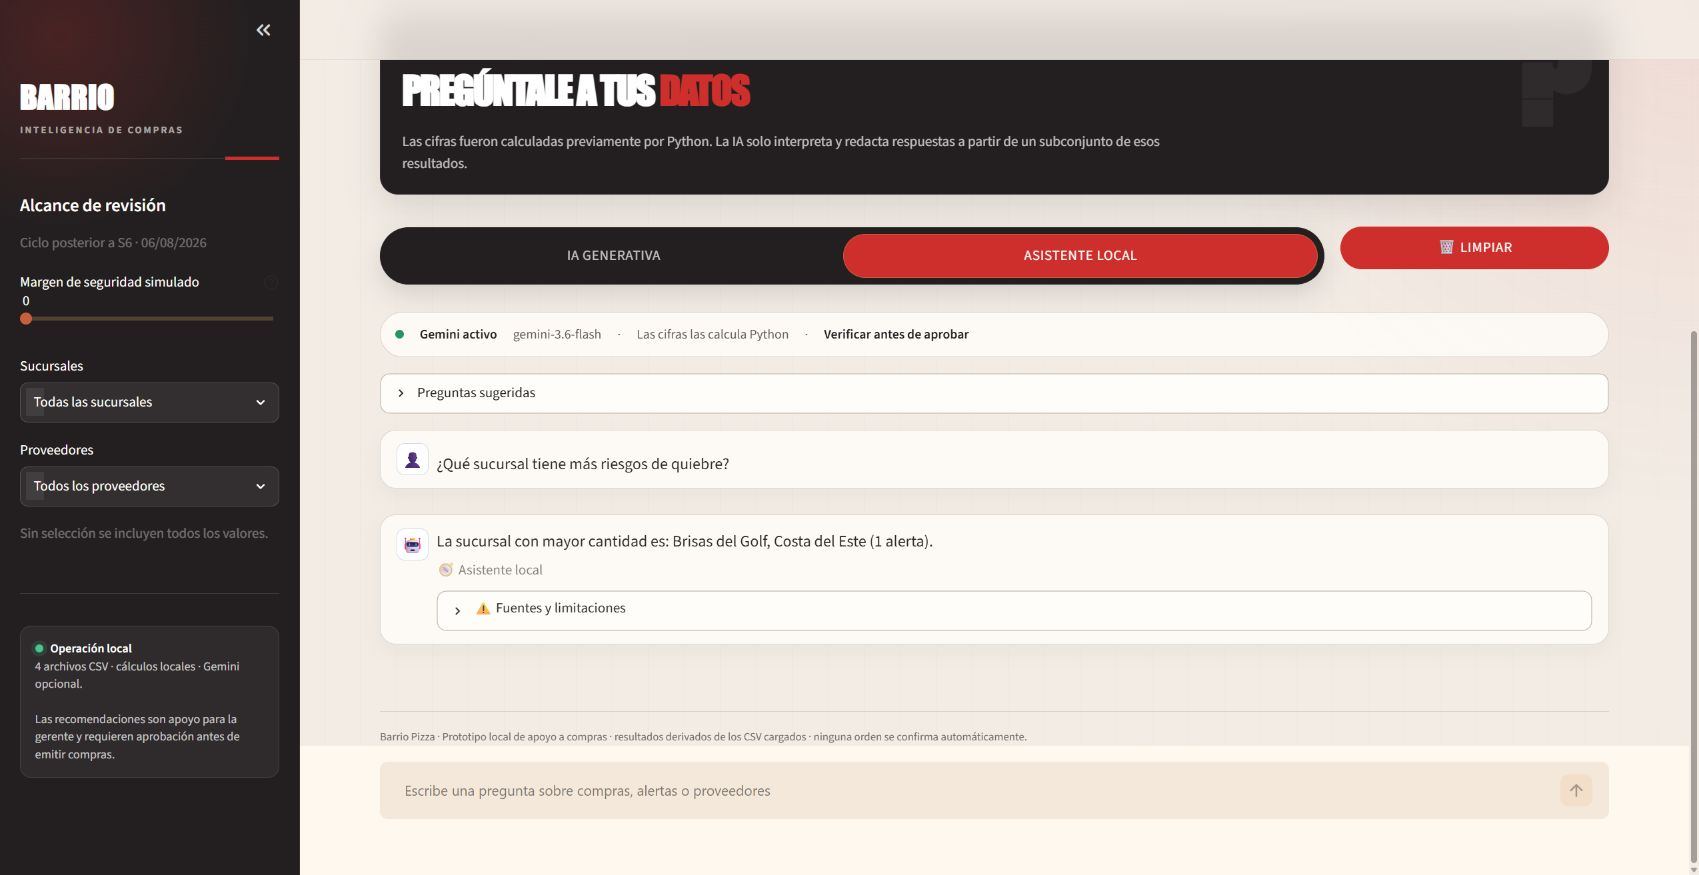
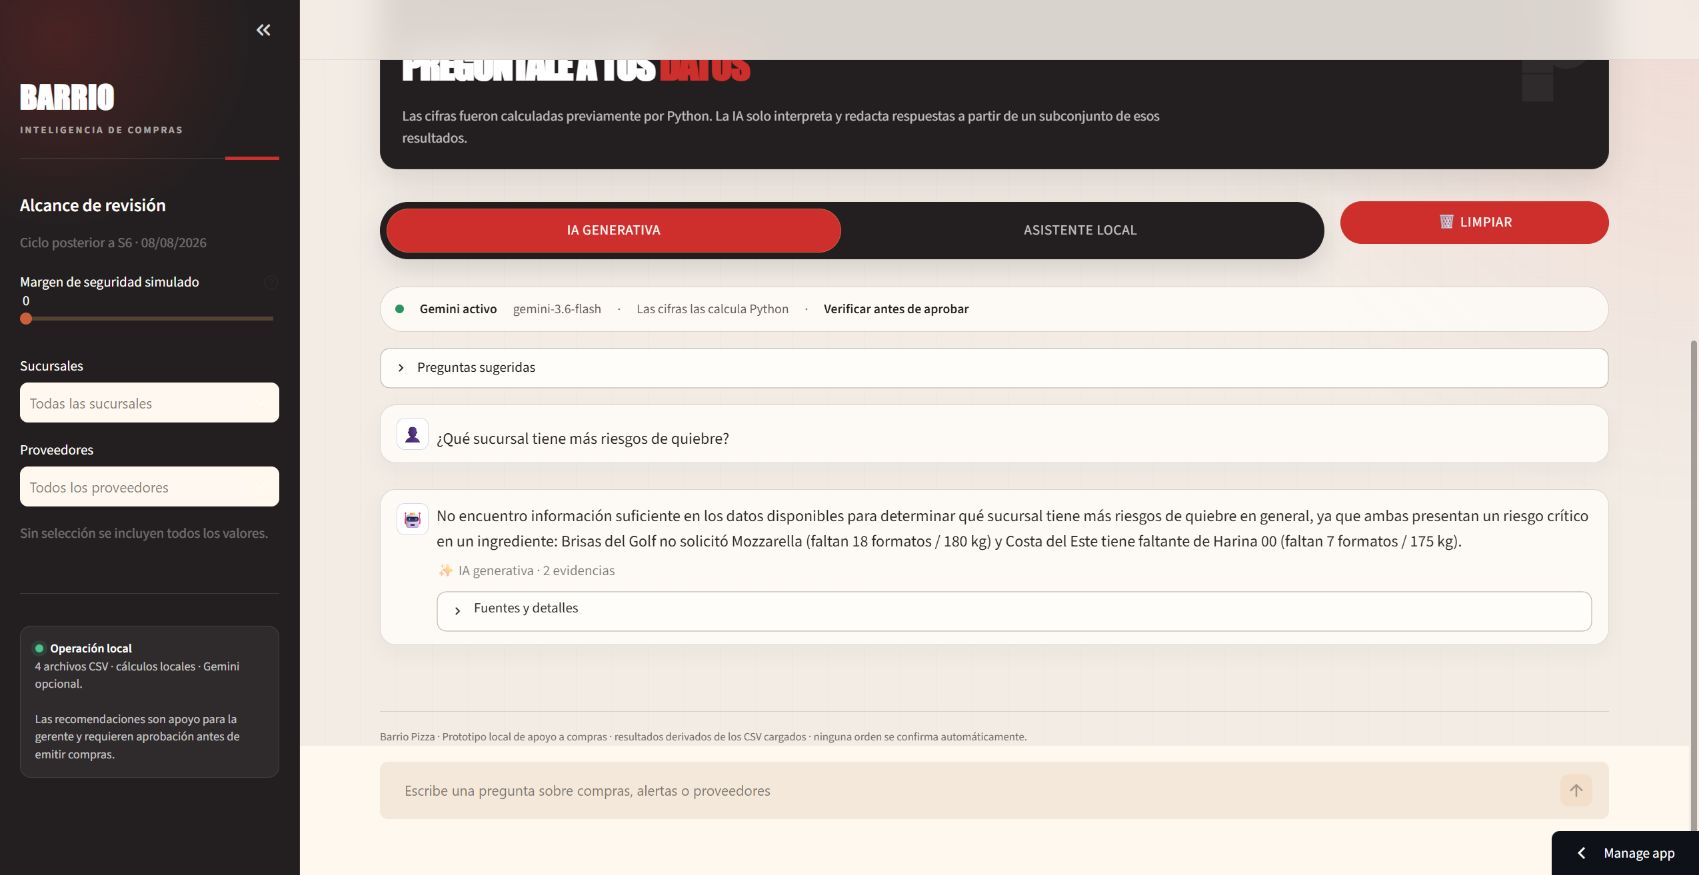
Actualiza capturas y validación final

diff --git a/README.md b/README.md
@@ -4,6 +4,8 @@ Prototipo funcional en Python y Streamlit para revisar las órdenes semanales de
 
 El motor de compras y el asistente local funcionan completamente sin claves de API. La variante `app_intelligent.py` puede usar Gemini de forma opcional para interpretar resultados ya calculados; si la integración no está configurada o falla, vuelve automáticamente al asistente local. Las recomendaciones son apoyo a la decisión y siempre requieren aprobación humana.
 
+**Aplicación pública:** [abrir Barrio Pizza | Asistente Inteligente de Compras](https://barrio-pizza-asistente-compras-aapy4fzuyfpau2alzceec5.streamlit.app/)
+
 > El enunciado recibido se preserva sin cambios en [`docs/RETO_ORIGINAL.md`](docs/RETO_ORIGINAL.md).
 
 ## Capturas del producto
@@ -25,6 +27,21 @@ El chat responde sobre cifras calculadas previamente por Python, identifica el m
 ![Detalle de la tendencia de Harina 00 en Costa del Este](docs/dashboard_tendencia_harina.png)
 
 El detalle de Costa del Este muestra el crecimiento de Harina 00 durante S1–S6 y la proyección S7. En la misma vista se observan inventario, consumo esperado, necesidad, formatos ordenados y recomendados.
+
+## Verificación final con los datos originales
+
+La versión publicada se comprobó con el margen de seguridad en **0%**. Los resultados observados fueron:
+
+| Caso | Resultado comprobado |
+|---|---|
+| Mozzarella · Brisas del Golf | Producto omitido; se recomiendan 18 cajas de 10 kg. |
+| Harina 00 · Costa del Este | Tendencia lineal; proyección de 330,27 kg; 13 sacos recomendados frente a 6 ordenados; faltan 7. |
+| Pepperoni · Marbella | S3 = 150 kg detectado y excluido como atípico; proyección limpia de 29 kg; 5 cajas ordenadas y recomendadas. |
+| Cebolla blanca · Brisas del Golf | 5 sacos ordenados frente a 2 recomendados; sobran 3. |
+| Albahaca fresca · Via Argentina | 20 paquetes ordenados frente a 2 recomendados; sobran 18; producto perecedero. |
+| `aji_chombo` · Costa del Este | Ingrediente fuera del catálogo; no se inventan proveedor, unidad ni formato de compra. |
+
+Estas cifras son resultados de prueba sobre los CSV entregados y continúan sujetas a aprobación humana antes de emitir una compra.
 
 ## Descripción del problema de negocio
 
